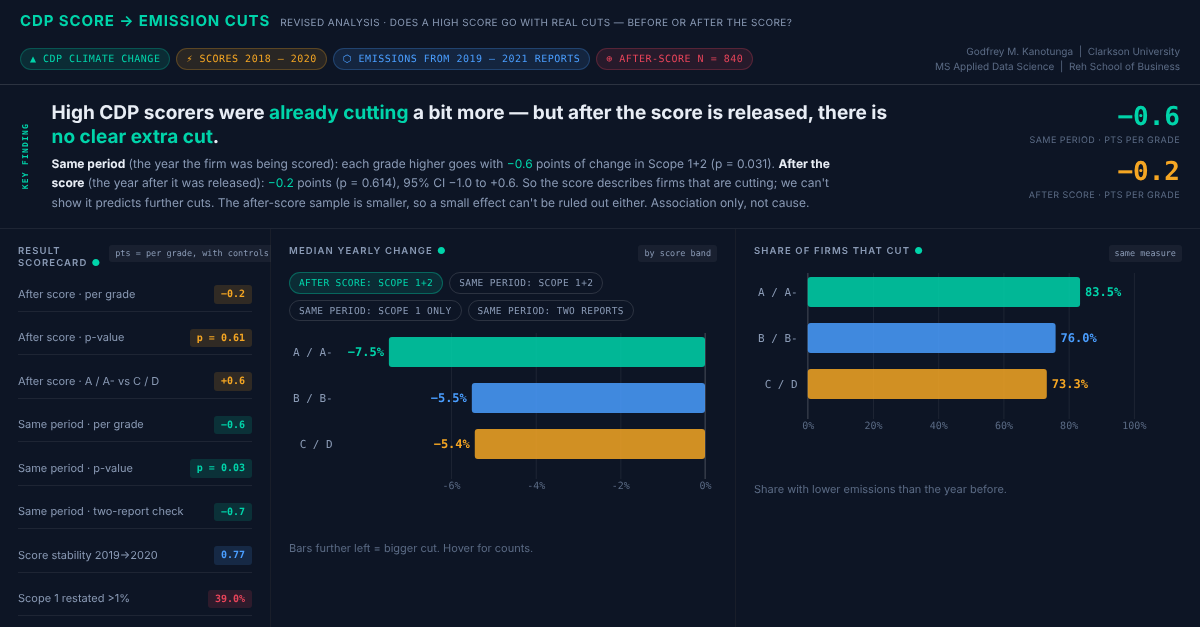
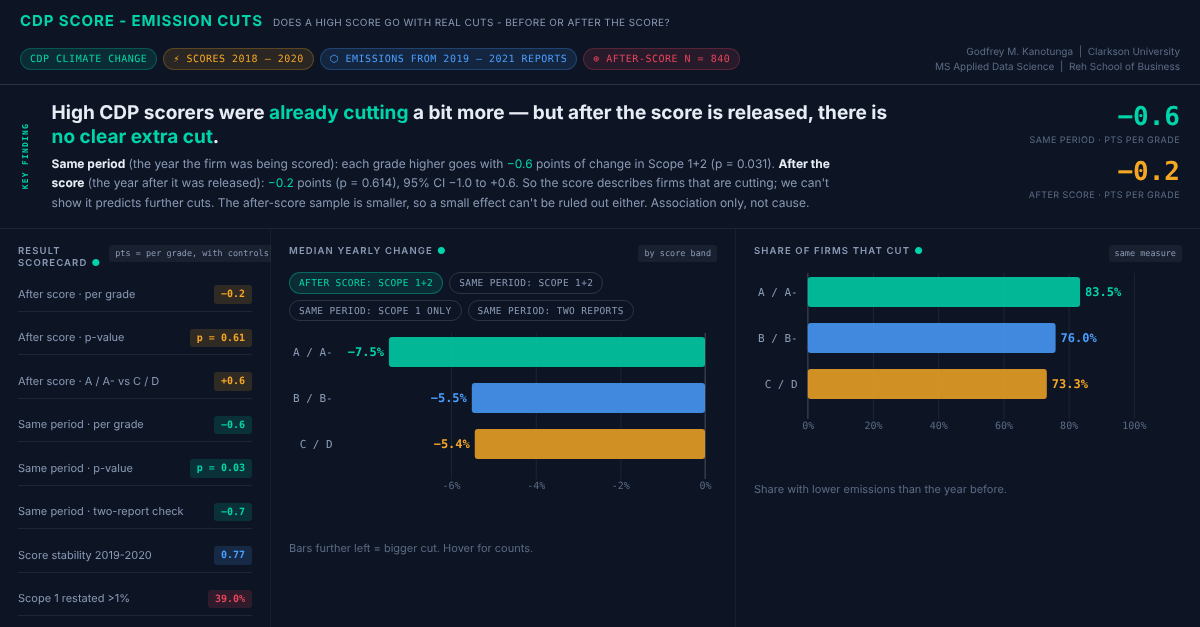
Simplify header wording and replace arrows with hyphens
Claude-Session: https://claude.ai/code/session_01CLeyKf1ftyaDmYCnC3gimT

Changed region(s): [[0.0308, 0.0, 0.6475, 0.1212], [0.0925, 0.8788, 0.1233, 0.9091]]

diff --git a/index.html b/index.html
@@ -14,7 +14,7 @@
 <script src="https://cdnjs.cloudflare.com/ajax/libs/d3/7.9.0/d3.min.js"></script>
 <style>html,body{margin:0;background:#080d1a}</style>
 <script>
-window.DASH_DATA={"bands": [{"measure": "After score: Scope 1+2", "band": "A / A-", "n": "139", "firms": "111", "median_pct": "-7.47", "share_cut_pct": "83.5"}, {"measure": "After score: Scope 1+2", "band": "B / B-", "n": "334", "firms": "270", "median_pct": "-5.51", "share_cut_pct": "76.0"}, {"measure": "After score: Scope 1+2", "band": "C / D", "n": "367", "firms": "291", "median_pct": "-5.44", "share_cut_pct": "73.3"}, {"measure": "Same period: Scope 1+2", "band": "A / A-", "n": "329", "firms": "246", "median_pct": "-6.69", "share_cut_pct": "78.4"}, {"measure": "Same period: Scope 1+2", "band": "B / B-", "n": "581", "firms": "429", "median_pct": "-4.51", "share_cut_pct": "71.9"}, {"measure": "Same period: Scope 1+2", "band": "C / D", "n": "593", "firms": "436", "median_pct": "-3.94", "share_cut_pct": "65.3"}, {"measure": "Same period: Scope 1 only", "band": "A / A-", "n": "339", "firms": "251", "median_pct": "-5.41", "share_cut_pct": "73.2"}, {"measure": "Same period: Scope 1 only", "band": "B / B-", "n": "601", "firms": "441", "median_pct": "-3.57", "share_cut_pct": "65.1"}, {"measure": "Same period: Scope 1 only", "band": "C / D", "n": "646", "firms": "474", "median_pct": "-2.62", "share_cut_pct": "59.0"}, {"measure": "Same period: two reports", "band": "A / A-", "n": "1546", "firms": "834", "median_pct": "-5.16", "share_cut_pct": "71.3"}, {"measure": "Same period: two reports", "band": "B / B-", "n": "1866", "firms": "1140", "median_pct": "-4.32", "share_cut_pct": "67.3"}, {"measure": "Same period: two reports", "band": "C / D", "n": "1613", "firms": "971", "median_pct": "-2.98", "share_cut_pct": "58.7"}], "models": [{"id": "lead|Average (OLS)|A / A-", "measure": "After score: Scope 1+2", "model": "Average (OLS)", "term": "A / A- vs C / D", "effect_pts": "0.55", "ci_low_pts": "-2.73", "ci_high_pts": "3.93", "p": "0.748", "n": "840", "firms": "598"}, {"id": "lead|Average (OLS)|B / B-", "measure": "After score: Scope 1+2", "model": "Average (OLS)", "term": "B / B- vs C / D", "effect_pts": "-0.62", "ci_low_pts": "-3.67", "ci_high_pts": "2.53", "p": "0.696", "n": "840", "firms": "598"}, {"id": "lead|Per grade step (OLS)|grade", "measure": "After score: Scope 1+2", "model": "Per grade step (OLS)", "term": "One grade higher", "effect_pts": "-0.2", "ci_low_pts": "-0.96", "ci_high_pts": "0.57", "p": "0.614", "n": "840", "firms": "598"}, {"id": "lead|Median regression|A / A-", "measure": "After score: Scope 1+2", "model": "Median regression", "term": "A / A- vs C / D", "effect_pts": "-1.32", "ci_low_pts": "-3.5", "ci_high_pts": "0.91", "p": "0.244", "n": "840", "firms": "598"}, {"id": "lead|Median regression|B / B-", "measure": "After score: Scope 1+2", "model": "Median regression", "term": "B / B- vs C / D", "effect_pts": "-0.66", "ci_low_pts": "-2.3", "ci_high_pts": "1.01", "p": "0.436", "n": "840", "firms": "598"}, {"id": "tot|Average (OLS)|A / A-", "measure": "Same period: Scope 1+2", "model": "Average (OLS)", "term": "A / A- vs C / D", "effect_pts": "-1.29", "ci_low_pts": "-3.64", "ci_high_pts": "1.11", "p": "0.29", "n": "1503", "firms": "902"}, {"id": "tot|Average (OLS)|B / B-", "measure": "Same period: Scope 1+2", "model": "Average (OLS)", "term": "B / B- vs C / D", "effect_pts": "-1.76", "ci_low_pts": "-3.96", "ci_high_pts": "0.49", "p": "0.125", "n": "1503", "firms": "902"}, {"id": "tot|Per grade step (OLS)|grade", "measure": "Same period: Scope 1+2", "model": "Per grade step (OLS)", "term": "One grade higher", "effect_pts": "-0.61", "ci_low_pts": "-1.17", "ci_high_pts": "-0.06", "p": "0.031", "n": "1503", "firms": "902"}, {"id": "tot|Median regression|A / A-", "measure": "Same period: Scope 1+2", "model": "Median regression", "term": "A / A- vs C / D", "effect_pts": "-1.16", "ci_low_pts": "-2.65", "ci_high_pts": "0.35", "p": "0.131", "n": "1503", "firms": "902"}, {"id": "tot|Median regression|B / B-", "measure": "Same period: Scope 1+2", "model": "Median regression", "term": "B / B- vs C / D", "effect_pts": "-1.26", "ci_low_pts": "-2.49", "ci_high_pts": "-0.0", "p": "0.05", "n": "1503", "firms": "902"}, {"id": "s1|Average (OLS)|A / A-", "measure": "Same period: Scope 1 only", "model": "Average (OLS)", "term": "A / A- vs C / D", "effect_pts": "-2.45", "ci_low_pts": "-6.13", "ci_high_pts": "1.38", "p": "0.207", "n": "1586", "firms": "945"}, {"id": "s1|Average (OLS)|B / B-", "measure": "Same period: Scope 1 only", "model": "Average (OLS)", "term": "B / B- vs C / D", "effect_pts": "-1.05", "ci_low_pts": "-4.6", "ci_high_pts": "2.63", "p": "0.571", "n": "1586", "firms": "945"}, {"id": "s1|Per grade step (OLS)|grade", "measure": "Same period: Scope 1 only", "model": "Per grade step (OLS)", "term": "One grade higher", "effect_pts": "-0.62", "ci_low_pts": "-1.65", "ci_high_pts": "0.42", "p": "0.241", "n": "1586", "firms": "945"}, {"id": "s1|Median regression|A / A-", "measure": "Same period: Scope 1 only", "model": "Median regression", "term": "A / A- vs C / D", "effect_pts": "-1.8", "ci_low_pts": "-3.49", "ci_high_pts": "-0.08", "p": "0.04", "n": "1586", "firms": "945"}, {"id": "s1|Median regression|B / B-", "measure": "Same period: Scope 1 only", "model": "Median regression", "term": "B / B- vs C / D", "effect_pts": "-1.1", "ci_low_pts": "-2.51", "ci_high_pts": "0.33", "p": "0.131", "n": "1586", "firms": "945"}, {"id": "cross|Average (OLS)|A / A-", "measure": "Same period: two reports", "model": "Average (OLS)", "term": "A / A- vs C / D", "effect_pts": "-2.22", "ci_low_pts": "-3.93", "ci_high_pts": "-0.48", "p": "0.012", "n": "5025", "firms": "2099"}, {"id": "cross|Average (OLS)|B / B-", "measure": "Same period: two reports", "model": "Average (OLS)", "term": "B / B- vs C / D", "effect_pts": "-2.31", "ci_low_pts": "-4.12", "ci_high_pts": "-0.48", "p": "0.014", "n": "5025", "firms": "2099"}, {"id": "cross|Per grade step (OLS)|grade", "measure": "Same period: two reports", "model": "Per grade step (OLS)", "term": "One grade higher", "effect_pts": "-0.68", "ci_low_pts": "-1.14", "ci_high_pts": "-0.22", "p": "0.004", "n": "5025", "firms": "2099"}, {"id": "cross|Median regression|A / A-", "measure": "Same period: two reports", "model": "Median regression", "term": "A / A- vs C / D", "effect_pts": "-0.77", "ci_low_pts": "-1.66", "ci_high_pts": "0.12", "p": "0.088", "n": "5025", "firms": "2099"}, {"id": "cross|Median regression|B / B-", "measure": "Same period: two reports", "model": "Median regression", "term": "B / B- vs C / D", "effect_pts": "-0.59", "ci_low_pts": "-1.42", "ci_high_pts": "0.25", "p": "0.166", "n": "5025", "firms": "2099"}], "byyear": [{"measure": "After score: Scope 1+2", "score_year": "2018", "band": "A / A-", "n": "58", "median_pct": "-4.93"}, {"measure": "After score: Scope 1+2", "score_year": "2018", "band": "B / B-", "n": "133", "median_pct": "-3.46"}, {"measure": "After score: Scope 1+2", "score_year": "2018", "band": "C / D", "n": "170", "median_pct": "-3.45"}, {"measure": "After score: Scope 1+2", "score_year": "2019", "band": "A / A-", "n": "81", "median_pct": "-11.56"}, {"measure": "After score: Scope 1+2", "score_year": "2019", "band": "B / B-", "n": "201", "median_pct": "-7.26"}, {"measure": "After score: Scope 1+2", "score_year": "2019", "band": "C / D", "n": "197", "median_pct": "-8.5"}, {"measure": "Same period: Scope 1+2", "score_year": "2018", "band": "A / A-", "n": "48", "median_pct": "-2.13"}, {"measure": "Same period: Scope 1+2", "score_year": "2018", "band": "B / B-", "n": "119", "median_pct": "-1.74"}, {"measure": "Same period: Scope 1+2", "score_year": "2018", "band": "C / D", "n": "140", "median_pct": "-1.66"}, {"measure": "Same period: Scope 1+2", "score_year": "2019", "band": "A / A-", "n": "89", "median_pct": "-5.04"}, {"measure": "Same period: Scope 1+2", "score_year": "2019", "band": "B / B-", "n": "226", "median_pct": "-4.29"}, {"measure": "Same period: Scope 1+2", "score_year": "2019", "band": "C / D", "n": "218", "median_pct": "-3.06"}, {"measure": "Same period: Scope 1+2", "score_year": "2020", "band": "A / A-", "n": "192", "median_pct": "-9.5"}, {"measure": "Same period: Scope 1+2", "score_year": "2020", "band": "B / B-", "n": "236", "median_pct": "-6.82"}, {"measure": "Same period: Scope 1+2", "score_year": "2020", "band": "C / D", "n": "235", "median_pct": "-8.28"}, {"measure": "Same period: Scope 1 only", "score_year": "2018", "band": "A / A-", "n": "50", "median_pct": "-0.89"}, {"measure": "Same period: Scope 1 only", "score_year": "2018", "band": "B / B-", "n": "125", "median_pct": "-1.67"}, {"measure": "Same period: Scope 1 only", "score_year": "2018", "band": "C / D", "n": "156", "median_pct": "0.0"}, {"measure": "Same period: Scope 1 only", "score_year": "2019", "band": "A / A-", "n": "93", "median_pct": "-4.03"}, {"measure": "Same period: Scope 1 only", "score_year": "2019", "band": "B / B-", "n": "236", "median_pct": "-2.3"}, {"measure": "Same period: Scope 1 only", "score_year": "2019", "band": "C / D", "n": "231", "median_pct": "-1.55"}, {"measure": "Same period: Scope 1 only", "score_year": "2020", "band": "A / A-", "n": "196", "median_pct": "-8.72"}, {"measure": "Same period: Scope 1 only", "score_year": "2020", "band": "B / B-", "n": "240", "median_pct": "-6.86"}, {"measure": "Same period: Scope 1 only", "score_year": "2020", "band": "C / D", "n": "259", "median_pct": "-6.76"}, {"measure": "Same period: two reports", "score_year": "2018", "band": "A / A-", "n": "357", "median_pct": "-1.8"}, {"measure": "Same period: two reports", "score_year": "2018", "band": "B / B-", "n": "497", "median_pct": "-1.64"}, {"measure": "Same period: two reports", "score_year": "2018", "band": "C / D", "n": "592", "median_pct": "-0.21"}, {"measure": "Same period: two reports", "score_year": "2019", "band": "A / A-", "n": "472", "median_pct": "-3.23"}, {"measure": "Same period: two reports", "score_year": "2019", "band": "B / B-", "n": "666", "median_pct": "-3.47"}, {"measure": "Same period: two reports", "score_year": "2019", "band": "C / D", "n": "532", "median_pct": "-1.77"}, {"measure": "Same period: two reports", "score_year": "2020", "band": "A / A-", "n": "717", "median_pct": "-8.97"}, {"measure": "Same period: two reports", "score_year": "2020", "band": "B / B-", "n": "703", "median_pct": "-8.09"}, {"measure": "Same period: two reports", "score_year": "2020", "band": "C / D", "n": "489", "median_pct": "-8.54"}], "funnel": [{"id": "lead1", "design": "After score", "order": "1", "step": "Investor scores given, 2018–2019", "n": "4464"}, {"id": "lead2", "design": "After score", "order": "2", "step": "Report two years later gives a clean change", "n": "1080"}, {"id": "lead3", "design": "After score", "order": "3", "step": "Change period starts after scores were released", "n": "955"}, {"id": "lead4", "design": "After score", "order": "4", "step": "Also has a sector (sample used)", "n": "840"}, {"id": "same1", "design": "Same period", "order": "1", "step": "Investor scores given, 2018–2020", "n": "7034"}, {"id": "same2", "design": "Same period", "order": "2", "step": "Next report gives a clean change", "n": "1635"}, {"id": "same3", "design": "Same period", "order": "3", "step": "Also has a sector (sample used)", "n": "1503"}], "quality": [{"id": "stab2018", "metric": "Score stability 2018→2019", "value": "0.8", "unit": "Spearman", "n": "1984"}, {"id": "stab2019", "metric": "Score stability 2019→2020", "value": "0.77", "unit": "Spearman", "n": "2177"}, {"id": "stab2020", "metric": "Score stability 2020→2021", "value": "0.78", "unit": "Spearman", "n": "2454"}, {"id": "rest_n", "metric": "Company-years reported in two files", "value": "3404.0", "unit": "count", "n": "3404"}, {"id": "rest_1", "metric": "Scope 1 later changed by more than 1%", "value": "39.0", "unit": "%", "n": "1327"}, {"id": "rest_50", "metric": "Scope 1 later changed by more than 50%", "value": "11.3", "unit": "%", "n": "385"}, {"id": "dec2018", "metric": "2019 reports whose year ends in 2018", "value": "68.5", "unit": "%", "n": "2649"}, {"id": "w_lo_lead", "metric": "Trim floor After score: Scope 1+2", "value": "-57.5", "unit": "%", "n": "0"}, {"id": "w_hi_lead", "metric": "Trim ceiling After score: Scope 1+2", "value": "62.4", "unit": "%", "n": "0"}, {"id": "w_lo_tot", "metric": "Trim floor Same period: Scope 1+2", "value": "-56.6", "unit": "%", "n": "0"}, {"id": "w_hi_tot", "metric": "Trim ceiling Same period: Scope 1+2", "value": "81.2", "unit": "%", "n": "0"}, {"id": "w_lo_s1", "metric": "Trim floor Same period: Scope 1 only", "value": "-76.4", "unit": "%", "n": "0"}, {"id": "w_hi_s1", "metric": "Trim ceiling Same period: Scope 1 only", "value": "257.4", "unit": "%", "n": "0"}, {"id": "w_lo_cross", "metric": "Trim floor Same period: two reports", "value": "-64.3", "unit": "%", "n": "0"}, {"id": "w_hi_cross", "metric": "Trim ceiling Same period: two reports", "value": "226.2", "unit": "%", "n": "0"}]};
+window.DASH_DATA={"bands": [{"measure": "After score: Scope 1+2", "band": "A / A-", "n": "139", "firms": "111", "median_pct": "-7.47", "share_cut_pct": "83.5"}, {"measure": "After score: Scope 1+2", "band": "B / B-", "n": "334", "firms": "270", "median_pct": "-5.51", "share_cut_pct": "76.0"}, {"measure": "After score: Scope 1+2", "band": "C / D", "n": "367", "firms": "291", "median_pct": "-5.44", "share_cut_pct": "73.3"}, {"measure": "Same period: Scope 1+2", "band": "A / A-", "n": "329", "firms": "246", "median_pct": "-6.69", "share_cut_pct": "78.4"}, {"measure": "Same period: Scope 1+2", "band": "B / B-", "n": "581", "firms": "429", "median_pct": "-4.51", "share_cut_pct": "71.9"}, {"measure": "Same period: Scope 1+2", "band": "C / D", "n": "593", "firms": "436", "median_pct": "-3.94", "share_cut_pct": "65.3"}, {"measure": "Same period: Scope 1 only", "band": "A / A-", "n": "339", "firms": "251", "median_pct": "-5.41", "share_cut_pct": "73.2"}, {"measure": "Same period: Scope 1 only", "band": "B / B-", "n": "601", "firms": "441", "median_pct": "-3.57", "share_cut_pct": "65.1"}, {"measure": "Same period: Scope 1 only", "band": "C / D", "n": "646", "firms": "474", "median_pct": "-2.62", "share_cut_pct": "59.0"}, {"measure": "Same period: two reports", "band": "A / A-", "n": "1546", "firms": "834", "median_pct": "-5.16", "share_cut_pct": "71.3"}, {"measure": "Same period: two reports", "band": "B / B-", "n": "1866", "firms": "1140", "median_pct": "-4.32", "share_cut_pct": "67.3"}, {"measure": "Same period: two reports", "band": "C / D", "n": "1613", "firms": "971", "median_pct": "-2.98", "share_cut_pct": "58.7"}], "models": [{"id": "lead|Average (OLS)|A / A-", "measure": "After score: Scope 1+2", "model": "Average (OLS)", "term": "A / A- vs C / D", "effect_pts": "0.55", "ci_low_pts": "-2.73", "ci_high_pts": "3.93", "p": "0.748", "n": "840", "firms": "598"}, {"id": "lead|Average (OLS)|B / B-", "measure": "After score: Scope 1+2", "model": "Average (OLS)", "term": "B / B- vs C / D", "effect_pts": "-0.62", "ci_low_pts": "-3.67", "ci_high_pts": "2.53", "p": "0.696", "n": "840", "firms": "598"}, {"id": "lead|Per grade step (OLS)|grade", "measure": "After score: Scope 1+2", "model": "Per grade step (OLS)", "term": "One grade higher", "effect_pts": "-0.2", "ci_low_pts": "-0.96", "ci_high_pts": "0.57", "p": "0.614", "n": "840", "firms": "598"}, {"id": "lead|Median regression|A / A-", "measure": "After score: Scope 1+2", "model": "Median regression", "term": "A / A- vs C / D", "effect_pts": "-1.32", "ci_low_pts": "-3.5", "ci_high_pts": "0.91", "p": "0.244", "n": "840", "firms": "598"}, {"id": "lead|Median regression|B / B-", "measure": "After score: Scope 1+2", "model": "Median regression", "term": "B / B- vs C / D", "effect_pts": "-0.66", "ci_low_pts": "-2.3", "ci_high_pts": "1.01", "p": "0.436", "n": "840", "firms": "598"}, {"id": "tot|Average (OLS)|A / A-", "measure": "Same period: Scope 1+2", "model": "Average (OLS)", "term": "A / A- vs C / D", "effect_pts": "-1.29", "ci_low_pts": "-3.64", "ci_high_pts": "1.11", "p": "0.29", "n": "1503", "firms": "902"}, {"id": "tot|Average (OLS)|B / B-", "measure": "Same period: Scope 1+2", "model": "Average (OLS)", "term": "B / B- vs C / D", "effect_pts": "-1.76", "ci_low_pts": "-3.96", "ci_high_pts": "0.49", "p": "0.125", "n": "1503", "firms": "902"}, {"id": "tot|Per grade step (OLS)|grade", "measure": "Same period: Scope 1+2", "model": "Per grade step (OLS)", "term": "One grade higher", "effect_pts": "-0.61", "ci_low_pts": "-1.17", "ci_high_pts": "-0.06", "p": "0.031", "n": "1503", "firms": "902"}, {"id": "tot|Median regression|A / A-", "measure": "Same period: Scope 1+2", "model": "Median regression", "term": "A / A- vs C / D", "effect_pts": "-1.16", "ci_low_pts": "-2.65", "ci_high_pts": "0.35", "p": "0.131", "n": "1503", "firms": "902"}, {"id": "tot|Median regression|B / B-", "measure": "Same period: Scope 1+2", "model": "Median regression", "term": "B / B- vs C / D", "effect_pts": "-1.26", "ci_low_pts": "-2.49", "ci_high_pts": "-0.0", "p": "0.05", "n": "1503", "firms": "902"}, {"id": "s1|Average (OLS)|A / A-", "measure": "Same period: Scope 1 only", "model": "Average (OLS)", "term": "A / A- vs C / D", "effect_pts": "-2.45", "ci_low_pts": "-6.13", "ci_high_pts": "1.38", "p": "0.207", "n": "1586", "firms": "945"}, {"id": "s1|Average (OLS)|B / B-", "measure": "Same period: Scope 1 only", "model": "Average (OLS)", "term": "B / B- vs C / D", "effect_pts": "-1.05", "ci_low_pts": "-4.6", "ci_high_pts": "2.63", "p": "0.571", "n": "1586", "firms": "945"}, {"id": "s1|Per grade step (OLS)|grade", "measure": "Same period: Scope 1 only", "model": "Per grade step (OLS)", "term": "One grade higher", "effect_pts": "-0.62", "ci_low_pts": "-1.65", "ci_high_pts": "0.42", "p": "0.241", "n": "1586", "firms": "945"}, {"id": "s1|Median regression|A / A-", "measure": "Same period: Scope 1 only", "model": "Median regression", "term": "A / A- vs C / D", "effect_pts": "-1.8", "ci_low_pts": "-3.49", "ci_high_pts": "-0.08", "p": "0.04", "n": "1586", "firms": "945"}, {"id": "s1|Median regression|B / B-", "measure": "Same period: Scope 1 only", "model": "Median regression", "term": "B / B- vs C / D", "effect_pts": "-1.1", "ci_low_pts": "-2.51", "ci_high_pts": "0.33", "p": "0.131", "n": "1586", "firms": "945"}, {"id": "cross|Average (OLS)|A / A-", "measure": "Same period: two reports", "model": "Average (OLS)", "term": "A / A- vs C / D", "effect_pts": "-2.22", "ci_low_pts": "-3.93", "ci_high_pts": "-0.48", "p": "0.012", "n": "5025", "firms": "2099"}, {"id": "cross|Average (OLS)|B / B-", "measure": "Same period: two reports", "model": "Average (OLS)", "term": "B / B- vs C / D", "effect_pts": "-2.31", "ci_low_pts": "-4.12", "ci_high_pts": "-0.48", "p": "0.014", "n": "5025", "firms": "2099"}, {"id": "cross|Per grade step (OLS)|grade", "measure": "Same period: two reports", "model": "Per grade step (OLS)", "term": "One grade higher", "effect_pts": "-0.68", "ci_low_pts": "-1.14", "ci_high_pts": "-0.22", "p": "0.004", "n": "5025", "firms": "2099"}, {"id": "cross|Median regression|A / A-", "measure": "Same period: two reports", "model": "Median regression", "term": "A / A- vs C / D", "effect_pts": "-0.77", "ci_low_pts": "-1.66", "ci_high_pts": "0.12", "p": "0.088", "n": "5025", "firms": "2099"}, {"id": "cross|Median regression|B / B-", "measure": "Same period: two reports", "model": "Median regression", "term": "B / B- vs C / D", "effect_pts": "-0.59", "ci_low_pts": "-1.42", "ci_high_pts": "0.25", "p": "0.166", "n": "5025", "firms": "2099"}], "byyear": [{"measure": "After score: Scope 1+2", "score_year": "2018", "band": "A / A-", "n": "58", "median_pct": "-4.93"}, {"measure": "After score: Scope 1+2", "score_year": "2018", "band": "B / B-", "n": "133", "median_pct": "-3.46"}, {"measure": "After score: Scope 1+2", "score_year": "2018", "band": "C / D", "n": "170", "median_pct": "-3.45"}, {"measure": "After score: Scope 1+2", "score_year": "2019", "band": "A / A-", "n": "81", "median_pct": "-11.56"}, {"measure": "After score: Scope 1+2", "score_year": "2019", "band": "B / B-", "n": "201", "median_pct": "-7.26"}, {"measure": "After score: Scope 1+2", "score_year": "2019", "band": "C / D", "n": "197", "median_pct": "-8.5"}, {"measure": "Same period: Scope 1+2", "score_year": "2018", "band": "A / A-", "n": "48", "median_pct": "-2.13"}, {"measure": "Same period: Scope 1+2", "score_year": "2018", "band": "B / B-", "n": "119", "median_pct": "-1.74"}, {"measure": "Same period: Scope 1+2", "score_year": "2018", "band": "C / D", "n": "140", "median_pct": "-1.66"}, {"measure": "Same period: Scope 1+2", "score_year": "2019", "band": "A / A-", "n": "89", "median_pct": "-5.04"}, {"measure": "Same period: Scope 1+2", "score_year": "2019", "band": "B / B-", "n": "226", "median_pct": "-4.29"}, {"measure": "Same period: Scope 1+2", "score_year": "2019", "band": "C / D", "n": "218", "median_pct": "-3.06"}, {"measure": "Same period: Scope 1+2", "score_year": "2020", "band": "A / A-", "n": "192", "median_pct": "-9.5"}, {"measure": "Same period: Scope 1+2", "score_year": "2020", "band": "B / B-", "n": "236", "median_pct": "-6.82"}, {"measure": "Same period: Scope 1+2", "score_year": "2020", "band": "C / D", "n": "235", "median_pct": "-8.28"}, {"measure": "Same period: Scope 1 only", "score_year": "2018", "band": "A / A-", "n": "50", "median_pct": "-0.89"}, {"measure": "Same period: Scope 1 only", "score_year": "2018", "band": "B / B-", "n": "125", "median_pct": "-1.67"}, {"measure": "Same period: Scope 1 only", "score_year": "2018", "band": "C / D", "n": "156", "median_pct": "0.0"}, {"measure": "Same period: Scope 1 only", "score_year": "2019", "band": "A / A-", "n": "93", "median_pct": "-4.03"}, {"measure": "Same period: Scope 1 only", "score_year": "2019", "band": "B / B-", "n": "236", "median_pct": "-2.3"}, {"measure": "Same period: Scope 1 only", "score_year": "2019", "band": "C / D", "n": "231", "median_pct": "-1.55"}, {"measure": "Same period: Scope 1 only", "score_year": "2020", "band": "A / A-", "n": "196", "median_pct": "-8.72"}, {"measure": "Same period: Scope 1 only", "score_year": "2020", "band": "B / B-", "n": "240", "median_pct": "-6.86"}, {"measure": "Same period: Scope 1 only", "score_year": "2020", "band": "C / D", "n": "259", "median_pct": "-6.76"}, {"measure": "Same period: two reports", "score_year": "2018", "band": "A / A-", "n": "357", "median_pct": "-1.8"}, {"measure": "Same period: two reports", "score_year": "2018", "band": "B / B-", "n": "497", "median_pct": "-1.64"}, {"measure": "Same period: two reports", "score_year": "2018", "band": "C / D", "n": "592", "median_pct": "-0.21"}, {"measure": "Same period: two reports", "score_year": "2019", "band": "A / A-", "n": "472", "median_pct": "-3.23"}, {"measure": "Same period: two reports", "score_year": "2019", "band": "B / B-", "n": "666", "median_pct": "-3.47"}, {"measure": "Same period: two reports", "score_year": "2019", "band": "C / D", "n": "532", "median_pct": "-1.77"}, {"measure": "Same period: two reports", "score_year": "2020", "band": "A / A-", "n": "717", "median_pct": "-8.97"}, {"measure": "Same period: two reports", "score_year": "2020", "band": "B / B-", "n": "703", "median_pct": "-8.09"}, {"measure": "Same period: two reports", "score_year": "2020", "band": "C / D", "n": "489", "median_pct": "-8.54"}], "funnel": [{"id": "lead1", "design": "After score", "order": "1", "step": "Investor scores given, 2018–2019", "n": "4464"}, {"id": "lead2", "design": "After score", "order": "2", "step": "Report two years later gives a clean change", "n": "1080"}, {"id": "lead3", "design": "After score", "order": "3", "step": "Change period starts after scores were released", "n": "955"}, {"id": "lead4", "design": "After score", "order": "4", "step": "Also has a sector (sample used)", "n": "840"}, {"id": "same1", "design": "Same period", "order": "1", "step": "Investor scores given, 2018–2020", "n": "7034"}, {"id": "same2", "design": "Same period", "order": "2", "step": "Next report gives a clean change", "n": "1635"}, {"id": "same3", "design": "Same period", "order": "3", "step": "Also has a sector (sample used)", "n": "1503"}], "quality": [{"id": "stab2018", "metric": "Score stability 2018-2019", "value": "0.8", "unit": "Spearman", "n": "1984"}, {"id": "stab2019", "metric": "Score stability 2019-2020", "value": "0.77", "unit": "Spearman", "n": "2177"}, {"id": "stab2020", "metric": "Score stability 2020-2021", "value": "0.78", "unit": "Spearman", "n": "2454"}, {"id": "rest_n", "metric": "Company-years reported in two files", "value": "3404.0", "unit": "count", "n": "3404"}, {"id": "rest_1", "metric": "Scope 1 later changed by more than 1%", "value": "39.0", "unit": "%", "n": "1327"}, {"id": "rest_50", "metric": "Scope 1 later changed by more than 50%", "value": "11.3", "unit": "%", "n": "385"}, {"id": "dec2018", "metric": "2019 reports whose year ends in 2018", "value": "68.5", "unit": "%", "n": "2649"}, {"id": "w_lo_lead", "metric": "Trim floor After score: Scope 1+2", "value": "-57.5", "unit": "%", "n": "0"}, {"id": "w_hi_lead", "metric": "Trim ceiling After score: Scope 1+2", "value": "62.4", "unit": "%", "n": "0"}, {"id": "w_lo_tot", "metric": "Trim floor Same period: Scope 1+2", "value": "-56.6", "unit": "%", "n": "0"}, {"id": "w_hi_tot", "metric": "Trim ceiling Same period: Scope 1+2", "value": "81.2", "unit": "%", "n": "0"}, {"id": "w_lo_s1", "metric": "Trim floor Same period: Scope 1 only", "value": "-76.4", "unit": "%", "n": "0"}, {"id": "w_hi_s1", "metric": "Trim ceiling Same period: Scope 1 only", "value": "257.4", "unit": "%", "n": "0"}, {"id": "w_lo_cross", "metric": "Trim floor Same period: two reports", "value": "-64.3", "unit": "%", "n": "0"}, {"id": "w_hi_cross", "metric": "Trim ceiling Same period: two reports", "value": "226.2", "unit": "%", "n": "0"}]};
 window.dash={data:function(id){return {status:'ok',data:window.DASH_DATA[id]||[]}},onData:function(fn){var run=function(){fn()};if(document.readyState==='loading')document.addEventListener('DOMContentLoaded',run);else run();var t;window.addEventListener('resize',function(){clearTimeout(t);t=setTimeout(fn,150)})},colors:['#00d4aa','#4a9eff','#f5a623','#e8445a','#a855f7']};
 </script>
 </head><body>
@@ -97,9 +97,9 @@ window.dash={data:function(id){return {status:'ok',data:window.DASH_DATA[id]||[]
 </style>
 <div class="cc" id="top">
   <div class="topbar">
-    <div class="brand"><h1>CDP Score → Emission Cuts</h1><span>Revised analysis · Does a high score go with real cuts — before or after the score?</span></div>
+    <div class="brand"><h1>CDP Score - Emission Cuts</h1><span>Does a high score go with real cuts - before or after the score?</span></div>
     <div class="pills">
-      <div class="pill pg">▲ CDP Climate Change</div>
+      <div class="pill pg">CDP Climate Change</div>
       <div class="pill pa">⚡ Scores 2018 – 2020</div>
       <div class="pill pb">⬡ Emissions from 2019 – 2021 reports</div>
       <div class="pill pr">⊕ After-score n = <span data-source="funnel" data-field="n" data-where="id=lead4" data-fmt="int">—</span></div>
@@ -127,8 +127,8 @@ window.dash={data:function(id){return {status:'ok',data:window.DASH_DATA[id]||[]
       <div class="tl">
         <div class="tls"><b>2018 questionnaire</b>Firm reports its 2017 data. CDP scores these answers.</div>
         <div class="tls"><b>Score released</b>The 2018 score is published around the turn of the year (late 2018 / early 2019).</div>
-        <div class="tls g"><b>2019 report → Same period</b>Shows 2018 vs 2017. Mostly before the score was out. <span data-source="quality" data-field="value" data-where="id=dec2018" data-fmt="pctu">—</span> of 2019 reports cover a year ending in 2018.</div>
-        <div class="tls k"><b>2020 report → After score</b>Shows 2019 vs 2018: the year after the score. Kept only if "Past year 1" ends on or after Dec 1 of the score year.</div>
+        <div class="tls g"><b>2019 report - Same period</b>Shows 2018 vs 2017. Mostly before the score was out. <span data-source="quality" data-field="value" data-where="id=dec2018" data-fmt="pctu">—</span> of 2019 reports cover a year ending in 2018.</div>
+        <div class="tls k"><b>2020 report - After score</b>Shows 2019 vs 2018: the year after the score. Kept only if "Past year 1" ends on or after Dec 1 of the score year.</div>
       </div>
     </div>
   </div>
@@ -142,7 +142,7 @@ window.dash={data:function(id){return {status:'ok',data:window.DASH_DATA[id]||[]
       <div class="scr"><div class="scl">Same period · per grade</div><div class="chip cg" data-source="models" data-field="effect_pts" data-where="id=tot%7CPer%20grade%20step%20(OLS)%7Cgrade" data-fmt="pts">—</div></div>
       <div class="scr"><div class="scl">Same period · p-value</div><div class="chip cg" data-source="models" data-field="p" data-where="id=tot%7CPer%20grade%20step%20(OLS)%7Cgrade" data-fmt="pchip">—</div></div>
       <div class="scr"><div class="scl">Same period · two-report check</div><div class="chip cg" data-source="models" data-field="effect_pts" data-where="id=cross%7CPer%20grade%20step%20(OLS)%7Cgrade" data-fmt="pts">—</div></div>
-      <div class="scr"><div class="scl">Score stability 2019→2020</div><div class="chip cb" data-source="quality" data-field="value" data-where="id=stab2019" data-fmt="r2">—</div></div>
+      <div class="scr"><div class="scl">Score stability 2019-2020</div><div class="chip cb" data-source="quality" data-field="value" data-where="id=stab2019" data-fmt="r2">—</div></div>
       <div class="scr"><div class="scl">Scope 1 restated &gt;1%</div><div class="chip cr" data-source="quality" data-field="value" data-where="id=rest_1" data-fmt="pctu">—</div></div>
       <div class="scr"><div class="scl">Causality</div><div class="chip ca">NOT SHOWN</div></div>
       <div class="insight"><b>Reading it:</b> negative = emissions fell. "Points" = percentage points of yearly change, compared with C / D firms or per grade. Amber = not significant.</div>
@@ -164,7 +164,7 @@ window.dash={data:function(id){return {status:'ok',data:window.DASH_DATA[id]||[]
     <div class="panel">
       <div class="ph"><div class="pt">Same pattern every year?<i>●</i></div><div class="badge">selected measure · median</div></div>
       <div class="chart" id="c-year" data-source="byyear"></div>
-      <div class="insight warn"><b>Watch COVID.</b> Same period, score 2020 covers 2019→2020; after score, score 2019 covers 2019→2020 too. In those COVID years the order of the bands shifts (for Scope 1+2, C / D firms cut more than B / B-). Score year 2018 is the cleanest test.</div>
+      <div class="insight warn"><b>Watch COVID.</b> Same period, score 2020 covers 2019-2020; after score, score 2019 covers 2019-2020 too. In those COVID years the order of the bands shifts (for Scope 1+2, C / D firms cut more than B / B-). Score year 2018 is the cleanest test.</div>
     </div>
     <div class="panel">
       <div class="ph"><div class="pt">Sample funnel<i>●</i></div><div class="badge" id="fun-badge">company-years</div></div>
@@ -199,7 +199,7 @@ window.dash={data:function(id){return {status:'ok',data:window.DASH_DATA[id]||[]
         <li>After-score sample is smaller (2 score years), so it can miss a small effect.</li>
         <li>Sample leans to larger, well-organised reporters.</li>
         <li>Changes can come from selling or buying business units, not real cuts.</li>
-        <li>2020 → 2021 includes COVID effects.</li>
+        <li>2020 - 2021 includes COVID effects.</li>
         <li>Scope 2 is location-based. Scope 3 is not used.</li>
       </ul>
     </div>
